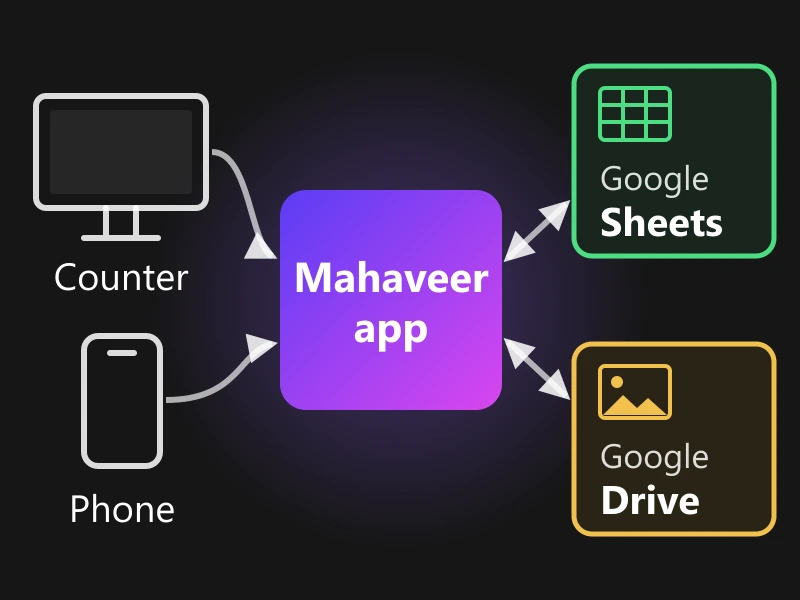
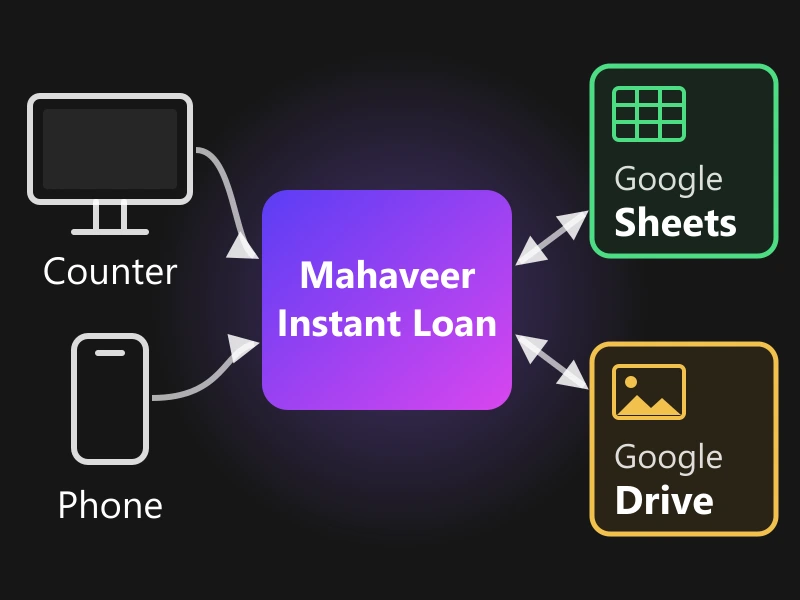
Rename the case study to Mahaveer Instant Loan, framed as a product
At Vamscore's request: "Mahaveer Pawn Broker" becomes "Mahaveer Instant
Loan", presented as a cloud platform for gold lending rather than an app
built for one shop. Story, carousel slide, service line, menu ("Fintech")
and the diagram all use the new name.

Framing kept to what is true: it is delivered as a cloud web app with
nothing to install. Nothing says or implies that other businesses
subscribe to it; the code serves one business and its owners, and the
note at the top of content/stories.ts says so.

/stories/mahaveer-pawn-broker now 308-redirects to
/stories/mahaveer-instant-loan: it was in the sitemap for a few hours and
may already be crawled or shared.

diff --git a/content/stories.ts b/content/stories.ts
@@ -10,12 +10,17 @@
  * facts only Vamscore can supply, and inventing them for a real business would be
  * worse than leaving a gap. `grep -n '\[' content/stories.ts` lists them.
  *
- * Mahaveer Pawn Broker is different: Vamscore built the software, and that
+ * Mahaveer Instant Loan is different: Vamscore built the software, and that
  * story was written from the application's own source code
  * (MahaveerPawnBroker-main, supplied 2026-09-22). Every capability it lists is
  * something the code does. It makes no claim about results, and — because the
  * app's API does not check who is calling it — no claim that customer
  * records are access-controlled. Keep it that way until the code changes.
+ *
+ * Named and framed as a product at Vamscore's request (2026-09-22). "Cloud"
+ * and "nothing to install" are true of how it is delivered. It does not say
+ * or imply that other businesses subscribe to it: the code serves one
+ * business and its owners. Change that only if it becomes true.
  */
 
 const IMG = "/assets/img";
@@ -389,22 +394,23 @@ export const STORIES: Story[] = [
   },
   /* ---------------------------------------------------------------------- */
   {
-    slug: "mahaveer-pawn-broker",
-    eyebrow: "FINANCIAL SERVICES",
-    client: "Mahaveer Pawn Broker",
-    title: "Mahaveer Pawn Broker: a gold loan counter, moved off paper",
+    // Was "mahaveer-pawn-broker"; next.config.ts redirects the old address.
+    slug: "mahaveer-instant-loan",
+    eyebrow: "FINTECH",
+    client: "Mahaveer Instant Loan",
+    title: "Mahaveer Instant Loan: a cloud platform for gold lending",
     standfirst:
-      "A pawn broker's day runs on paper tickets, a calculator and a ledger. We built Mahaveer Pawn Broker a web application that does the work of all three — and remembers every customer who has come back to the counter.",
+      "Gold lending still runs on paper tickets, a calculator and a ledger. Mahaveer Instant Loan replaces all three with one cloud platform — loan pricing, digital pawn tickets, customer history and payment reminders — that runs in any browser, at the counter or on a phone.",
     // The project's own artwork: jewellery on a dark table, with the calm left
     // third the carousel's headline needs.
     hero: `${IMG}/story-mahaveer-gold.webp`,
     heroAlt:
       "Gold bangles, rings and a chain necklace heaped on a dark wooden table in warm light",
     meta: [
-      { term: "Client", detail: "Mahaveer Pawn Broker" },
-      { term: "Sector", detail: "Gold loans and pawn broking" },
-      { term: "What we built", detail: "A web application for the loan counter" },
-      { term: "Vamscore's role", detail: "Design, development and deployment" },
+      { term: "Product", detail: "Mahaveer Instant Loan" },
+      { term: "Category", detail: "Gold loan management software" },
+      { term: "Delivery", detail: "Cloud web app, nothing to install" },
+      { term: "Vamscore's role", detail: "Product design, development and deployment" },
     ],
     blocks: [
       {
@@ -436,7 +442,7 @@ export const STORIES: Story[] = [
         kind: "list",
         heading: "What we built",
         intro:
-          "One application for the counter, used on the shop's computer and the owner's phone alike.",
+          "One platform for the whole loan desk, used on the counter's computer and the owner's phone alike.",
         items: [
           {
             title: "Owner sign-in",
@@ -474,13 +480,13 @@ export const STORIES: Story[] = [
       {
         kind: "facts",
         heading: "How it is built",
-        intro: "Chosen so the business has as little as possible to run.",
+        intro: "Built so the business has nothing to install, host or maintain.",
         // Drawn for this page, not client artwork. Shows only what the rows
         // below say: two devices, one app, Sheets and Drive. The host is not
         // named, here or in the rows (Vamscore's call, 2026-09-22).
         aside: {
           src: `${IMG}/story-mahaveer-architecture.webp`,
-          alt: "Diagram: the counter computer and the owner's phone both connect to the Mahaveer app, which reads and writes the loan register in Google Sheets and stores ticket photos in Google Drive",
+          alt: "Diagram: the counter computer and the owner's phone both connect to the Mahaveer Instant Loan platform, which reads and writes the loan register in Google Sheets and stores ticket photos in Google Drive",
         },
         rows: [
           {

diff --git a/content/services.ts b/content/services.ts
@@ -82,15 +82,15 @@ export const SERVICES: Service[] = [
     topic: "Channel partnership",
   },
   {
-    // Added 2026-09-22, evidenced by the Mahaveer Pawn Broker story. Last
+    // Added 2026-09-22, evidenced by the Mahaveer Instant Loan story. Last
     // because it is the newest line, which is the order the hero describes.
     id: "software",
     title: "Software and web development",
     body: "We build web applications and websites for businesses that still run on paper, spreadsheets and phone calls — shaped around how the work is actually done, and handed over in tools the owner already uses.",
     points: [
-      "Business web applications built around a real workflow",
+      "Cloud platforms and business web applications built around a real workflow",
       "Websites",
-      "A gold loan counter for a pawn broker — see the Mahaveer Pawn Broker story",
+      "Mahaveer Instant Loan, a gold loan management platform — see the story",
     ],
     topic: "Software or website development",
   },

diff --git a/content/home.ts b/content/home.ts
@@ -148,11 +148,11 @@ export const CUSTOMER_STORIES = {
       slug: "tata-docomo-channel-partner",
     },
     {
-      eyebrow: "FINANCIAL SERVICES",
+      eyebrow: "FINTECH",
       title:
-        "Mahaveer Pawn Broker — a gold loan counter, moved off paper and onto a web app",
+        "Mahaveer Instant Loan — a cloud platform that takes gold lending off paper",
       image: `${IMG}/story-mahaveer-gold.webp`,
-      slug: "mahaveer-pawn-broker",
+      slug: "mahaveer-instant-loan",
     },
   ],
   // `href` is completed per slide in the component from the slug above.

diff --git a/next.config.ts b/next.config.ts
@@ -53,6 +53,14 @@ const nextConfig: NextConfig = {
         destination: "https://vamscore.com/:path*",
         permanent: true,
       })),
+      // The case study was published as "Mahaveer Pawn Broker" on 2026-09-22
+      // and renamed the same day. The old address was in the sitemap, so it
+      // may already be crawled or shared.
+      {
+        source: "/stories/mahaveer-pawn-broker",
+        destination: "/stories/mahaveer-instant-loan",
+        permanent: true,
+      },
     ];
   },
 };

diff --git a/content/nav.ts b/content/nav.ts
@@ -63,7 +63,7 @@ export const NAV_ITEMS: NavItem[] = [
             label: "Channel partnership",
             href: "/stories/tata-docomo-channel-partner",
           },
-          { label: "Financial services", href: "/stories/mahaveer-pawn-broker" },
+          { label: "Fintech", href: "/stories/mahaveer-instant-loan" },
         ],
       },
       {

diff --git a/tests/links.test.ts b/tests/links.test.ts
@@ -112,7 +112,7 @@ describe("services and the stories that evidence them", () => {
     expect(links.map((l) => l.href)).toEqual(
       expect.arrayContaining([
         "/services#software",
-        "/stories/mahaveer-pawn-broker",
+        "/stories/mahaveer-instant-loan",
       ])
     );
   });
